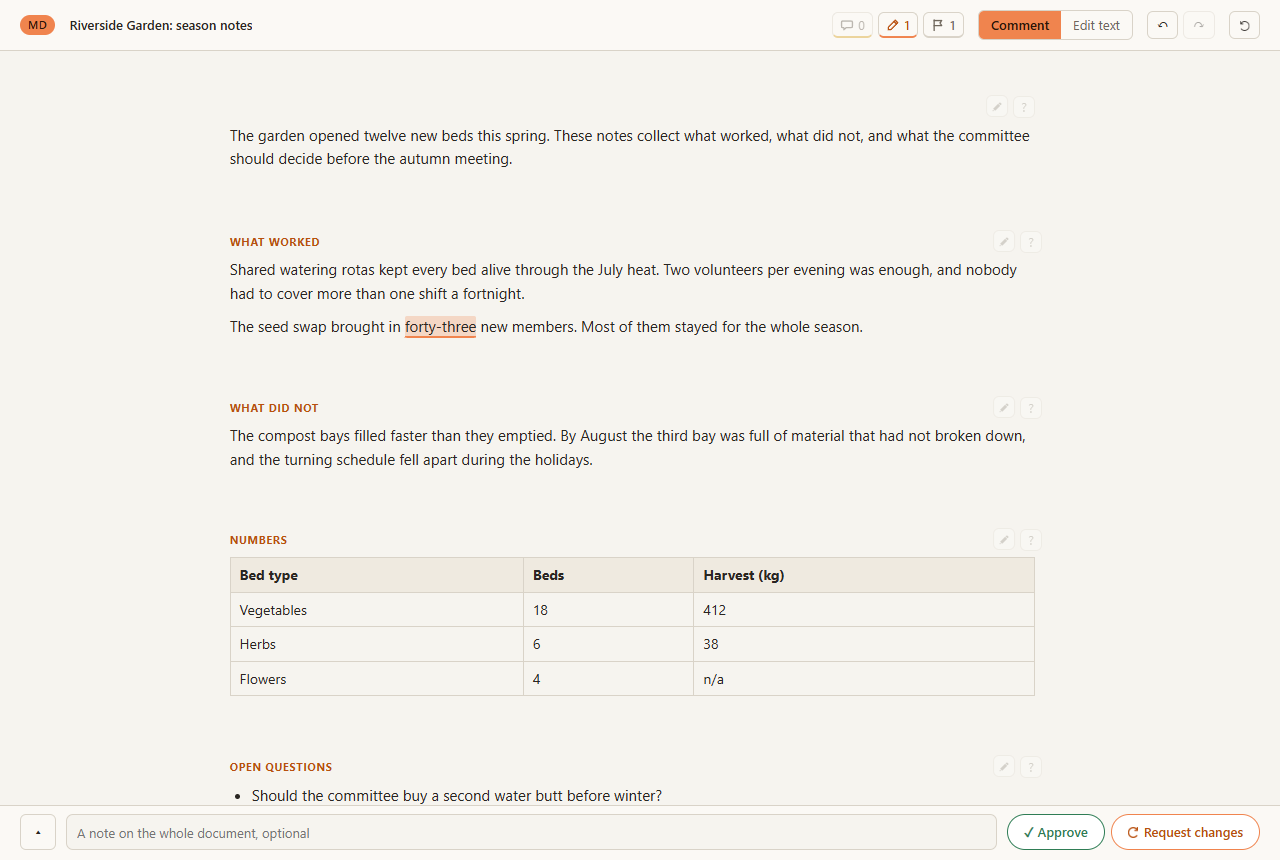
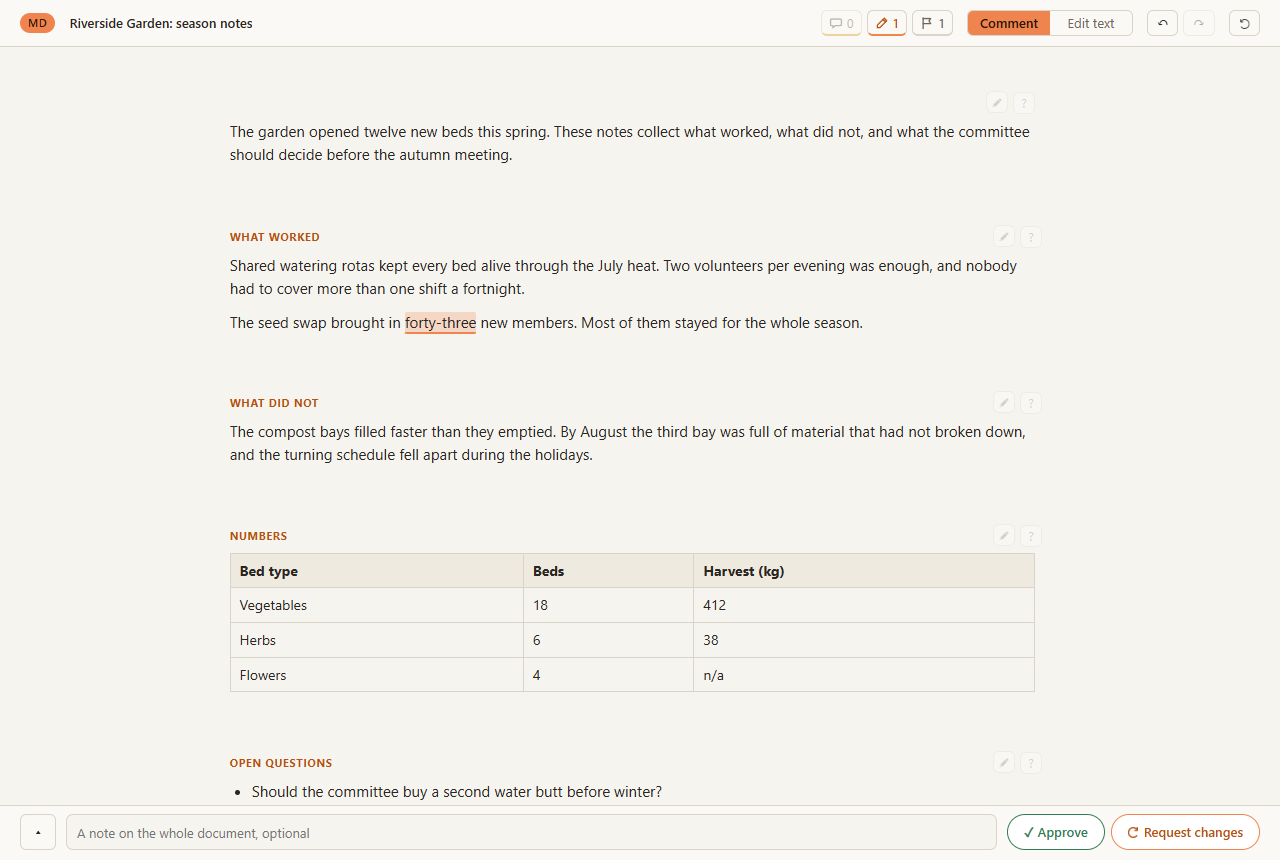
review-doc 1.0.3: header buttons one height, mode switch slides
Every header button from the Comment / Edit text switch rightwards is 26px,
as tall as the counters. The switch is two equal halves with one accent
plate that slides between them; labels sit 1px higher. Screenshots retaken.

diff --git a/plugins/review-doc/presenter/assets/shell.css b/plugins/review-doc/presenter/assets/shell.css
@@ -239,19 +239,68 @@ header > .doc-title { flex-shrink: 1; }
   .is-target { animation: none; outline: 2px solid var(--accent); outline-offset: 3px; }
 }
 
-.modes { display: flex; border: 1px solid var(--line); border-radius: 6px; overflow: hidden; }
+/* Every control from the mode switch rightwards stands as tall as the
+   counters, so the row reads as one line of buttons. The counters are pinned
+   too: left to their content they land a fraction short at browser zoom. */
+.counter, .modes, header .iconbtn { height: 26px; }
+header .iconbtn { padding-top: 0; padding-bottom: 0; }
+
+/* The two halves are one width, so the accent can be a single plate that
+   slides between them instead of jumping. The plate sits under the labels;
+   the bold weight moves with it but the text never shifts, because each
+   label is laid out once at its pressed weight. */
+.modes {
+  position: relative;
+  display: grid;
+  grid-template-columns: 1fr 1fr;
+  border: 1px solid var(--line);
+  border-radius: 6px;
+  overflow: hidden;
+}
+
+.modes::before {
+  content: "";
+  position: absolute;
+  top: 0;
+  bottom: 0;
+  left: 0;
+  width: 50%;
+  background: var(--accent);
+  transition: transform .22s ease;
+}
+body.mode-edit .modes::before { transform: translateX(100%); }
 
 .modes button {
+  position: relative;
   border: 0;
   background: transparent;
   font: inherit;
   font-size: 13px;
-  padding: 4px 12px;
+  line-height: 1;
+  /* 2px under the label lifts its centre by 1px, where it sits level with the
+     counters' numbers. */
+  padding: 0 12px 2px;
   cursor: pointer;
   color: var(--label);
+  transition: color .22s ease;
 }
 
-.modes button[aria-pressed="true"] { background: var(--accent); color: #2a1608; font-weight: 600; }
+/* The label is drawn once in bold and invisible, which fixes its width, and
+   the visible one sits on top of it in whichever weight it has right now. */
+.modes button::after {
+  content: attr(data-label);
+  display: block;
+  height: 0;
+  overflow: hidden;
+  visibility: hidden;
+  font-weight: 600;
+}
+
+.modes button[aria-pressed="true"] { color: #2a1608; font-weight: 600; }
+
+@media (prefers-reduced-motion: reduce) {
+  .modes::before, .modes button { transition: none; }
+}
 
 .iconbtn {
   border: 1px solid var(--line);

diff --git a/plugins/review-doc/tests/run.py b/plugins/review-doc/tests/run.py
@@ -1718,6 +1718,26 @@ def test_request_changes_loop_sits_higher_with_more_air():
     assert "margin-right" not in reset, "the header reset loop is not moved"
 
 
+@test
+def test_header_buttons_one_height_and_mode_plate_slides():
+    """Filip, 01.10.2026 (1.0.3): every button from the mode switch rightwards is as
+    tall as the counters, and the switch slides its accent instead of jumping."""
+    css = io.open(os.path.join(PRESENTER, "assets", "shell.css"), encoding="utf-8").read()
+    assert ".counter, .modes, header .iconbtn { height: 26px; }" in css
+    modes = css.split(chr(10) + ".modes {")[1].split("}")[0]
+    assert "grid-template-columns: 1fr 1fr;" in modes, "two equal halves for the plate"
+    plate = css.split(chr(10) + ".modes::before {")[1].split("}")[0]
+    assert "transition: transform" in plate
+    assert "body.mode-edit .modes::before { transform: translateX(100%); }" in css
+    assert "padding: 0 12px 2px;" in css.split(chr(10) + ".modes button {")[1].split("}")[0], \
+        "the label sits 1px higher"
+    assert '.modes button[aria-pressed="true"] { color: #2a1608; font-weight: 600; }' in css, \
+        "the pressed half no longer paints its own background"
+    html = io.open(os.path.join(PRESENTER, "shell.py"), encoding="utf-8").read()
+    assert 'data-mode="comment" data-label="Comment"' in html
+    assert 'data-mode="edit" data-label="Edit text"' in html
+
+
 # --------------------------------------------------------------------------
 
 

diff --git a/plugins/review-doc/presenter/shell.py b/plugins/review-doc/presenter/shell.py
@@ -66,9 +66,9 @@ __CSS__
     <button class="counter" data-kind="all" type="button" disabled><svg class="ico" viewBox="0 0 16 16" aria-hidden="true"><path d="M3.6 14.2V2.4"/><path d="M3.6 2.9h8.6l-2 2.9 2 2.9H3.6"/></svg><span class="num">0</span></button>
   </div>
   <div class="modes" role="group" aria-label="Review mode">
-    <button type="button" data-mode="comment" aria-pressed="true"
+    <button type="button" data-mode="comment" data-label="Comment" aria-pressed="true"
             data-tip="Select any passage to comment on it">Comment</button>
-    <button type="button" data-mode="edit" aria-pressed="false"
+    <button type="button" data-mode="edit" data-label="Edit text" aria-pressed="false"
             data-tip="Click into the text and rewrite it in place">Edit text</button>
   </div>
   <div class="history">

diff --git a/CHANGELOG.md b/CHANGELOG.md
@@ -6,6 +6,15 @@ and the project uses [Semantic Versioning](https://semver.org/).
 
 ## [Unreleased]
 
+## [1.0.3] - 2026-10-01
+
+### Changed
+- Every button in the header from the Comment / Edit text switch to the right is now
+  as tall as the feedback counters, so the row reads as one line of buttons.
+- The Comment / Edit text switch slides its highlight from one half to the other
+  instead of jumping. Both halves are the same width, the labels sit 1px higher, and
+  the slide is off under reduced motion.
+
 ## [1.0.2] - 2026-10-01
 
 ### Fixed
